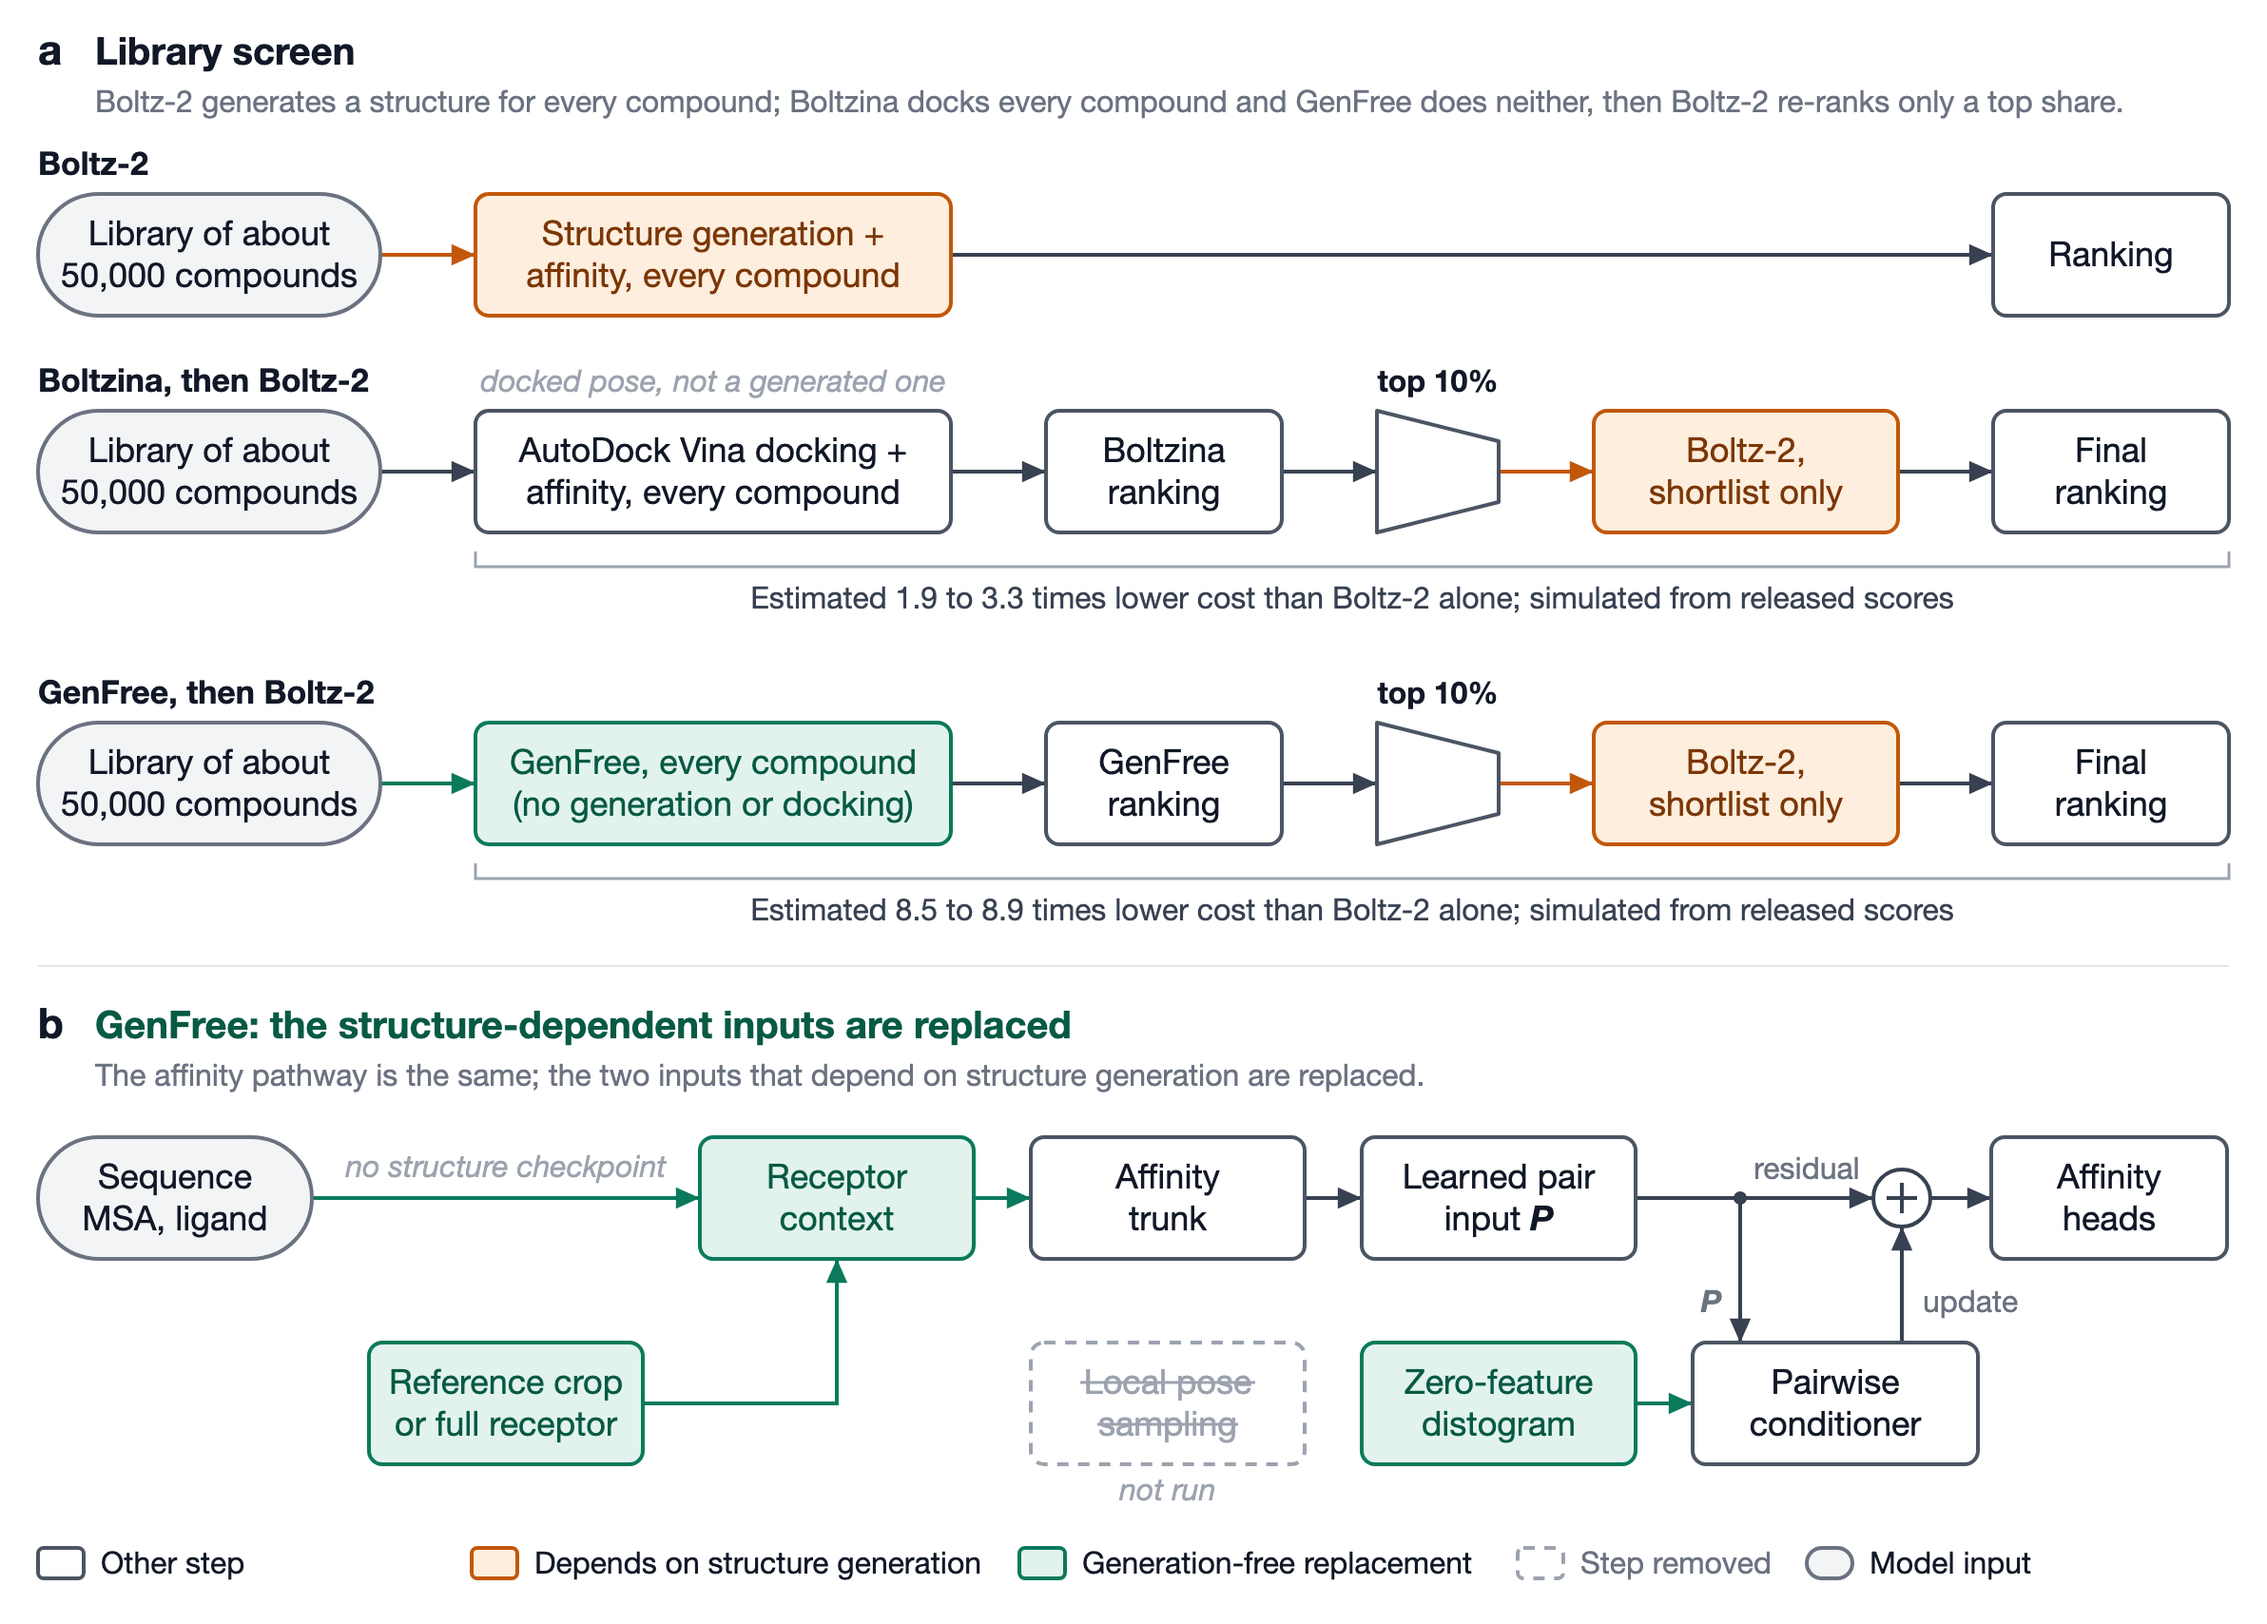
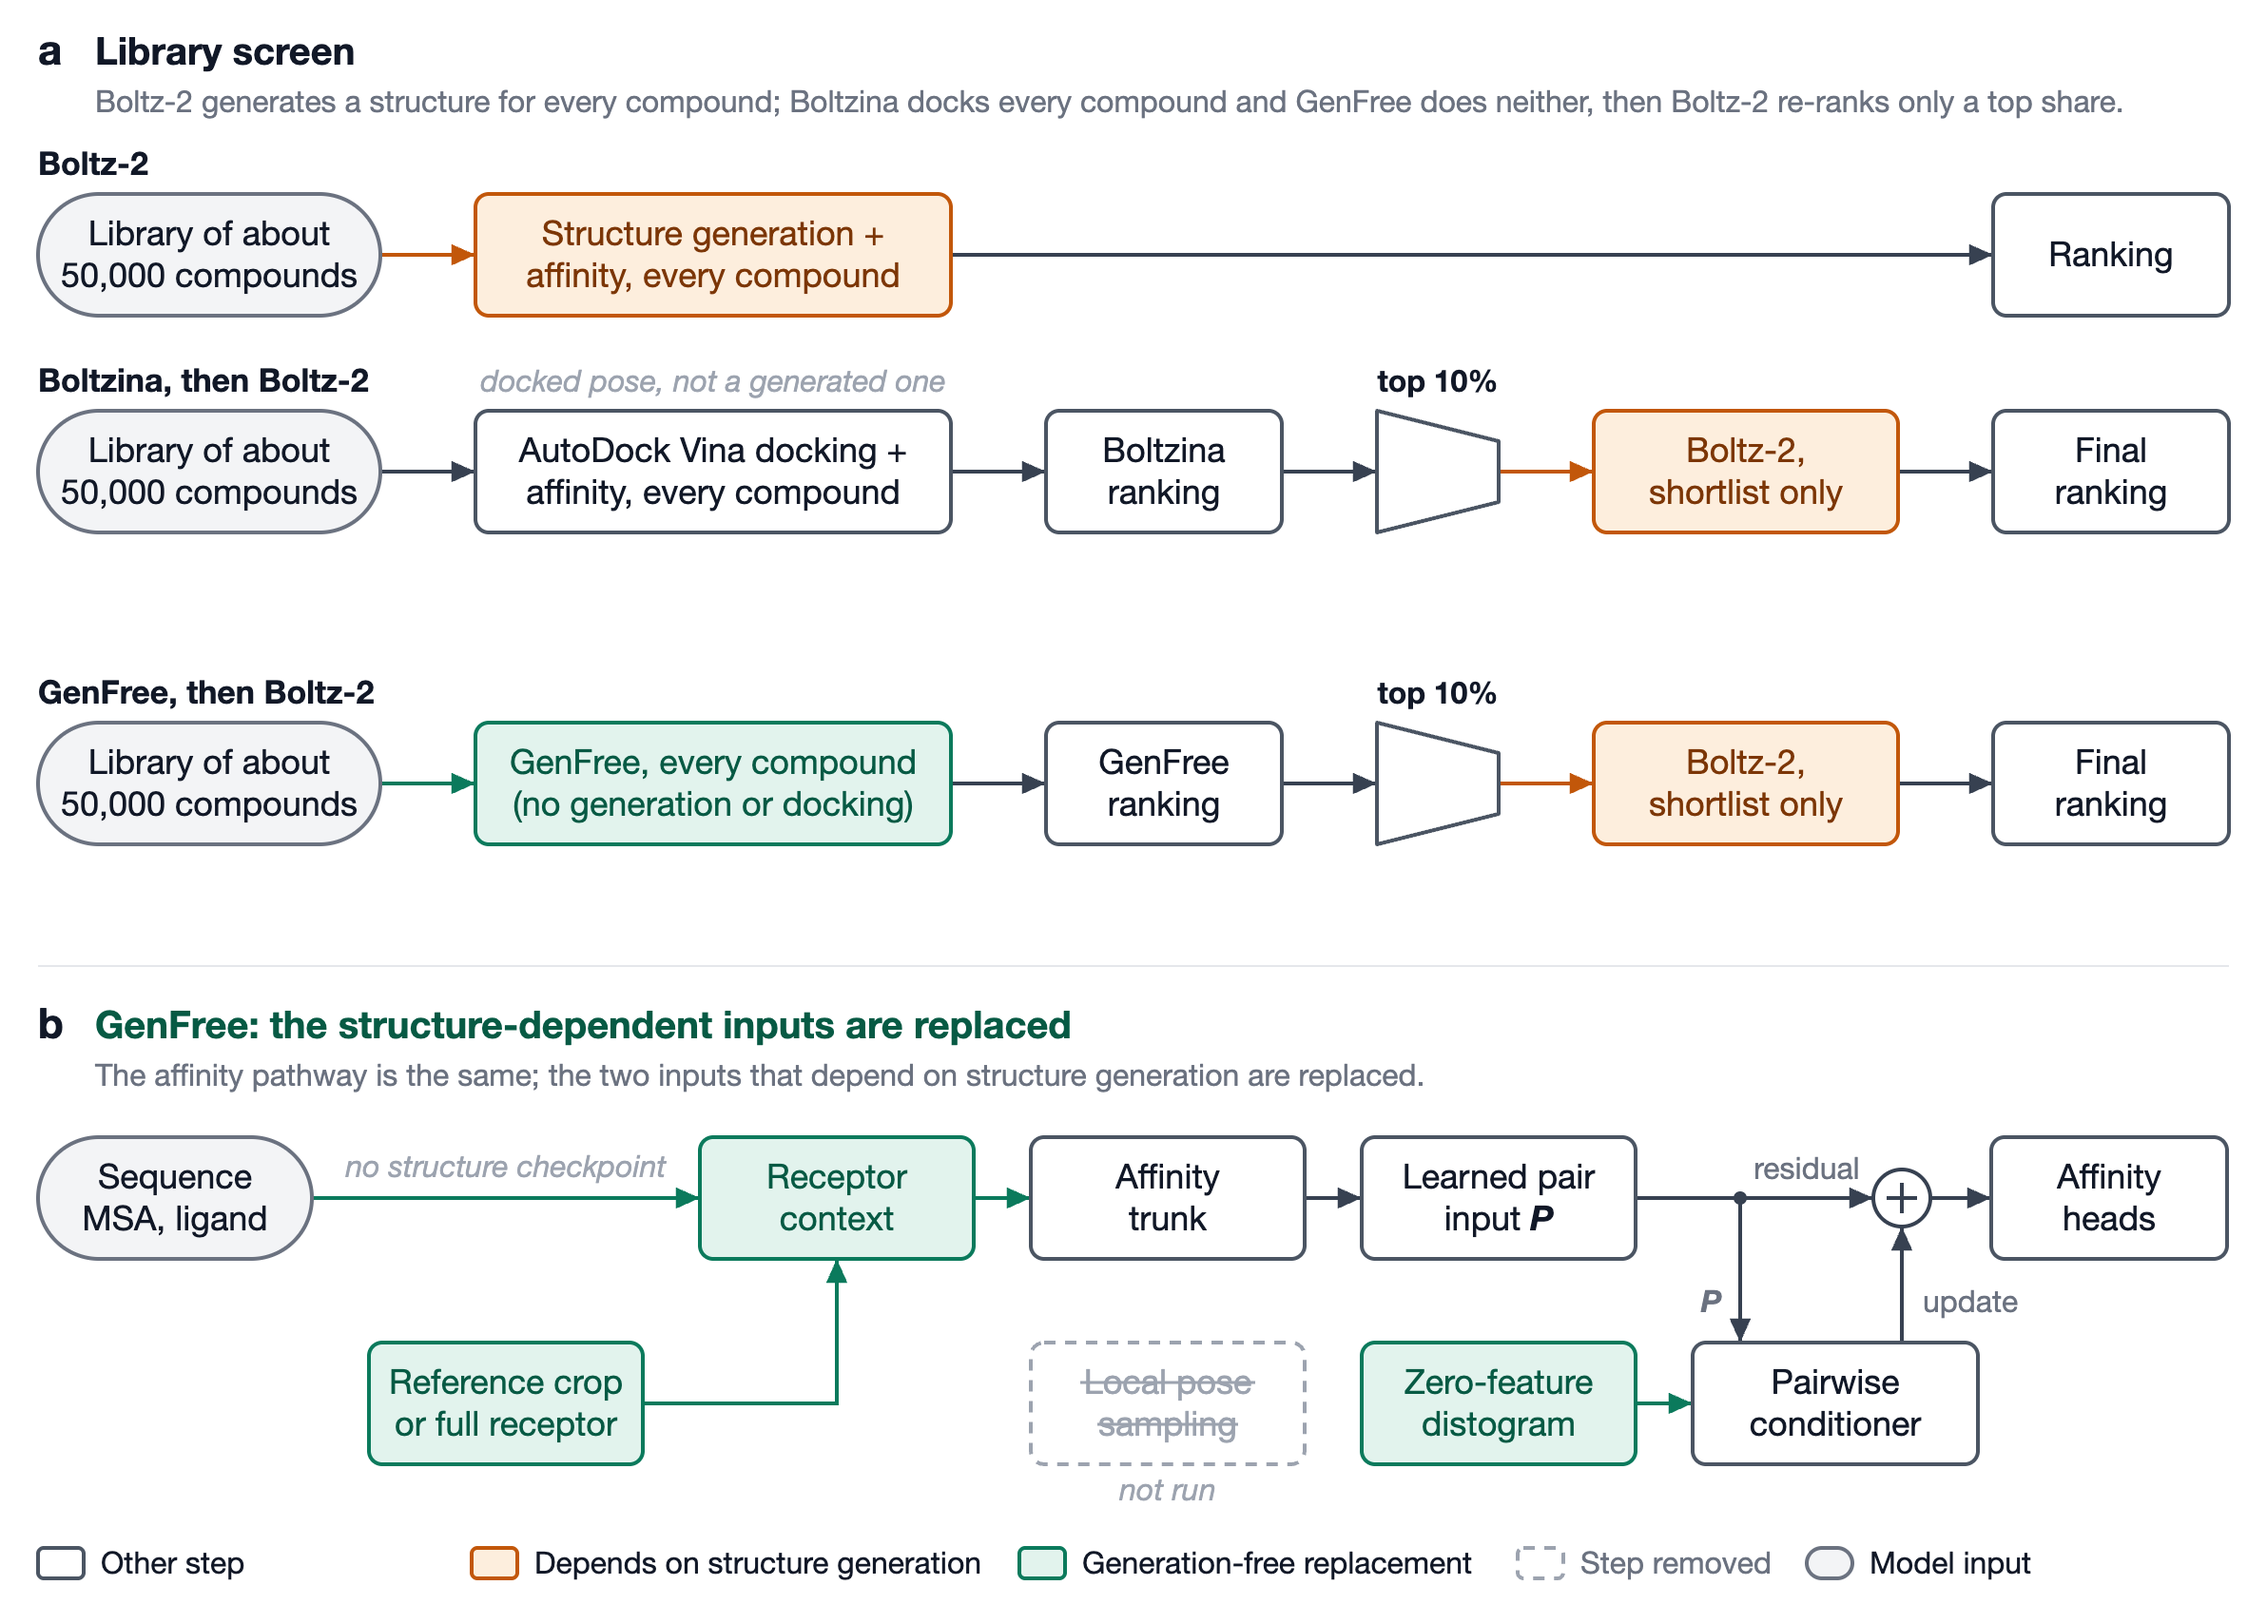
docs: drop the cost estimates from the README figure and its caption

Changed region(s): [[0.3104, 0.5275, 0.8691, 0.5896], [0.3104, 0.3413, 0.8691, 0.3724]]

diff --git a/README.md b/README.md
@@ -11,8 +11,6 @@ the ranking.
 
 ![GenFree as the first stage of a library screen](docs/images/screening_routes.png)
 
-*Boltz-2 generates a structure for every compound; in a two-stage screen GenFree ranks the whole library without building any structure, and Boltz-2 re-ranks only the top of the ranking. Figure 1 of the associated manuscript.*
-
 GenFree needs a receptor context. A short receptor is used in full; a longer one is
 cropped using a supplied reference complex, which only selects receptor sequence
 blocks and gives the model no ligand pose or structure-derived distogram.
